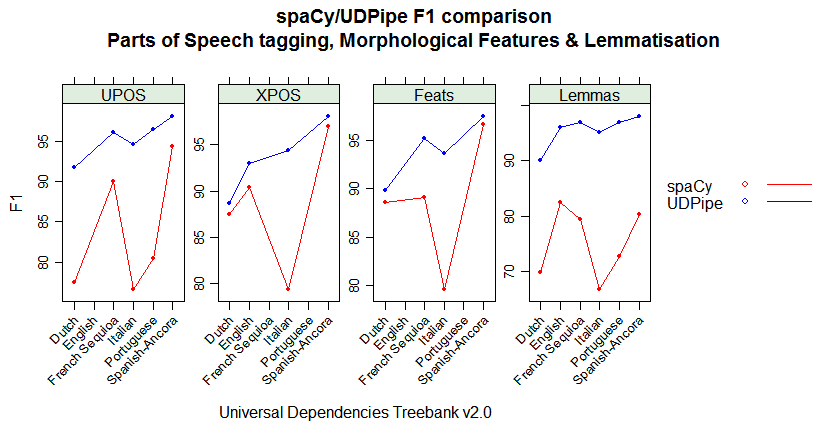
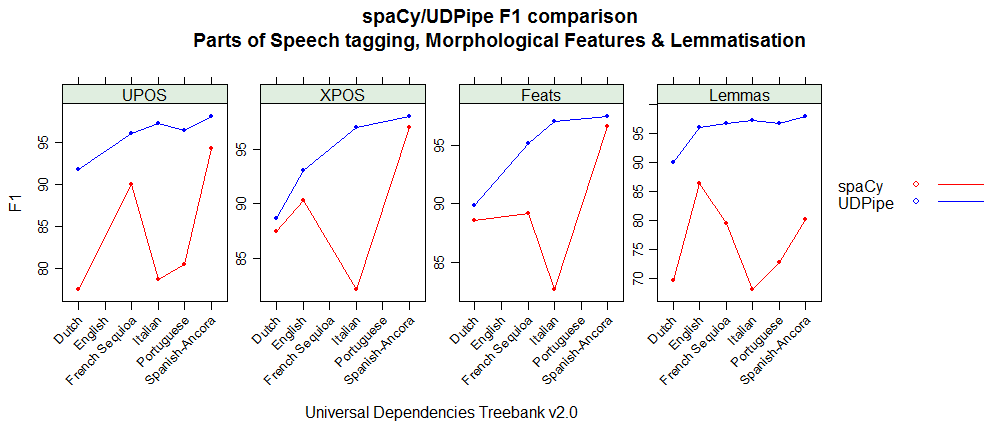
Run on Linux box with LANG nl_BE.UTF-8 to to use iconv. Also English now using V2.0 of UD treebank.

diff --git a/README.md b/README.md
@@ -2,8 +2,8 @@ This repository uses the CONLL-U evaluation script available at https://github.c
 
 - It does this evaluation for French (UD_French-Sequoia treebank), Dutch (UD_Dutch treebank), Spanish (UD_Spanish-Ancora treebank), Portuguese (UD_Portuguese treebank), Italian (UD_Italian treebank) and English (UD_English treebank)
 - The udpipe and spacy models used for evaluation were trained on the same treebanks from www.universaldependencies.org except for English. For English the udpipe models are constructed on a different treebank (UD_English) than the model which was built by spacy (which was trained on the Ontonotes treebank). All models were trained on the training set of each of the respective treebanks, while evalution shown below is executed on the left out test set.
-- For the spacy models, we took the models currently available for download as in python -m spacy download es (spaCy Version: 2.0.5), these were build on version 2.0 of the UD treebanks. For the udpipe models, the official models provided by the udpipe authors which were trained on 2017-08-01 on version 2.0-test of the treebanks were used (models available at https://github.com/jwijffels/udpipe.models.ud.2.0). Except for English, for which we built a model on 2018-01-11 on the newest version 2.1 of the UD_English treebank (code for this is openly available at https://github.com/bnosac/udpipe.models.ud). 
-- Code was run on 2018-02-07. Just run the R script udpipe-spacy-comparison.R if you want to reproduce this.
+- For the spacy models, we took the models currently available for download as in python -m spacy download es` (spaCy Version: 2.0.7), these were build on version 2.0 of the UD treebanks. For the udpipe models, the official models provided by the udpipe authors which were trained on 2017-08-01 on version 2.0-test of the treebanks were used (models available at https://github.com/jwijffels/udpipe.models.ud.2.0). Except for English, for which we built a model on 2018-01-11 on the newest version 2.1 of the UD_English treebank (code for this is openly available at https://github.com/bnosac/udpipe.models.ud). 
+- Code was run on 2018-02-11. Just run the R script udpipe-spacy-comparison.R if you want to reproduce this. Code run on a Ubuntu Linux machine with LANG nl_BE.UTF-8.
 
 Below the output is reported from the CONLL17 evaluation scripts for the udpipe and spacy models. 
 The most used results are the one from AligndAcc which indicate Gold accuracies which means that if we know the tokenisation, how good would the parts-of-speech tagging, morphological feature tagging and dependency parsing be.
@@ -215,7 +215,7 @@ CLAS       |     65.28 |     68.14 |     66.68 |     69.30
 
 Evaluation data from https://github.com/UniversalDependencies/UD_Italian release 2.0-test
 
-Notes: had to recode full text to ASCII to make evaluation work on my Windows machine
+Notes: None
 
 ## udpipe
 
@@ -223,17 +223,17 @@ Notes: had to recode full text to ASCII to make evaluation work on my Windows ma
 > system("python evaluation_script/conll17_ud_eval.py -v gold.conllu predictions_udpipe.conllu")
 Metrics    | Precision |    Recall |  F1 Score | AligndAcc
 -----------+-----------+-----------+-----------+-----------
-Tokens     |     99.87 |     99.82 |     99.85 |
-Sentences  |     95.93 |     97.93 |     96.92 |
-Words      |     99.78 |     99.76 |     99.77 |
-UPOS       |     94.61 |     94.60 |     94.60 |     94.82
-XPOS       |     94.37 |     94.36 |     94.36 |     94.58
-Feats      |     93.66 |     93.65 |     93.65 |     93.87
-AllTags    |     92.62 |     92.60 |     92.61 |     92.82
-Lemmas     |     95.08 |     95.07 |     95.07 |     95.29
-UAS        |     84.26 |     84.25 |     84.25 |     84.45
-LAS        |     79.88 |     79.87 |     79.88 |     80.06
-CLAS       |     72.59 |     72.47 |     72.53 |     72.68
+Tokens     |     99.91 |     99.92 |     99.91 |
+Sentences  |     96.73 |     98.34 |     97.53 |
+Words      |     99.82 |     99.85 |     99.83 |
+UPOS       |     97.21 |     97.24 |     97.22 |     97.38
+XPOS       |     97.01 |     97.03 |     97.02 |     97.18
+Feats      |     96.99 |     97.01 |     97.00 |     97.16
+AllTags    |     96.10 |     96.13 |     96.12 |     96.28
+Lemmas     |     97.28 |     97.31 |     97.30 |     97.46
+UAS        |     88.90 |     88.92 |     88.91 |     89.06
+LAS        |     86.20 |     86.22 |     86.21 |     86.36
+CLAS       |     79.81 |     79.49 |     79.65 |     79.67
 ```
 
 ## spacy
@@ -243,16 +243,16 @@ CLAS       |     72.59 |     72.47 |     72.53 |     72.68
 Metrics    | Precision |    Recall |  F1 Score | AligndAcc
 -----------+-----------+-----------+-----------+-----------
 Tokens     |     97.10 |     94.66 |     95.86 |
-Sentences  |     94.95 |     97.51 |     96.21 |
+Sentences  |     95.74 |     97.93 |     96.82 |
 Words      |     90.39 |     81.89 |     85.93 |
-UPOS       |     80.60 |     73.02 |     76.62 |     89.17
-XPOS       |     83.53 |     75.67 |     79.41 |     92.42
-Feats      |     83.78 |     75.90 |     79.64 |     92.68
-AllTags    |     79.05 |     71.61 |     75.15 |     87.46
-Lemmas     |     70.27 |     63.66 |     66.80 |     77.74
-UAS        |     66.61 |     60.34 |     63.32 |     73.69
-LAS        |     61.44 |     55.66 |     58.41 |     67.97
-CLAS       |     54.15 |     56.24 |     55.18 |     60.70
+UPOS       |     82.75 |     74.96 |     78.66 |     91.55
+XPOS       |     86.39 |     78.27 |     82.13 |     95.58
+Feats      |     86.96 |     78.78 |     82.66 |     96.20
+AllTags    |     81.78 |     74.09 |     77.75 |     90.48
+Lemmas     |     71.73 |     64.98 |     68.19 |     79.36
+UAS        |     70.98 |     64.30 |     67.47 |     78.52
+LAS        |     67.31 |     60.98 |     63.99 |     74.47
+CLAS       |     59.85 |     61.85 |     60.84 |     66.76
 ```
 
 # English (mark udpipe trained on UD_English, spacy was trained on Ontonotes)
@@ -264,6 +264,7 @@ Notes:
 - udpipe was trained on UD_English while spacy was trained on OntoNotes which is a different treebank than the udpipe model which makes comparison tricky
 - spacy does not return morphological features + it seems that dependency relationships do not follow the same format as universaldependencies.org giving probably false evaluation metrics on UAS and LAS
 - This all indicates that probably only the metrics on upos and xpos are relevant for comparison
+- also removed sentence newsgroup-groups.google.com_n3td3v_e874a1e5eb995654_ENG_20060120_052200-0011 from the test dataset as it contained non-UTF-8 characters
 
 ## udpipe
 
@@ -271,17 +272,17 @@ Notes:
 > system("python evaluation_script/conll17_ud_eval.py -v gold.conllu predictions_udpipe.conllu")
 Metrics    | Precision |    Recall |  F1 Score | AligndAcc
 -----------+-----------+-----------+-----------+-----------
-Tokens     |     99.13 |     98.91 |     99.02 |
-Sentences  |     94.57 |     97.35 |     95.94 |
-Words      |     99.13 |     98.91 |     99.02 |
-UPOS       |     93.76 |     93.55 |     93.65 |     94.58
-XPOS       |     93.11 |     92.91 |     93.01 |     93.93
-Feats      |     94.56 |     94.35 |     94.46 |     95.39
-AllTags    |     91.69 |     91.49 |     91.59 |     92.50
-Lemmas     |     96.20 |     95.99 |     96.10 |     97.05
-UAS        |     82.39 |     82.21 |     82.30 |     83.12
-LAS        |     79.07 |     78.90 |     78.99 |     79.77
-CLAS       |     75.55 |     74.91 |     75.23 |     75.72
+Tokens     |     99.15 |     98.94 |     99.05 |
+Sentences  |     93.49 |     96.82 |     95.13 |
+Words      |     99.15 |     98.94 |     99.05 |
+UPOS       |     93.77 |     93.58 |     93.68 |     94.58
+XPOS       |     93.15 |     92.95 |     93.05 |     93.95
+Feats      |     94.59 |     94.40 |     94.50 |     95.41
+AllTags    |     91.81 |     91.61 |     91.71 |     92.59
+Lemmas     |     96.16 |     95.96 |     96.06 |     96.99
+UAS        |     83.09 |     82.91 |     83.00 |     83.80
+LAS        |     79.97 |     79.80 |     79.88 |     80.65
+CLAS       |     76.20 |     75.95 |     76.07 |     76.81
 ```
 
 ## spacy
@@ -290,17 +291,17 @@ CLAS       |     75.55 |     74.91 |     75.23 |     75.72
 > system("python evaluation_script/conll17_ud_eval.py -v gold.conllu predictions_spacy.conllu")
 Metrics    | Precision |    Recall |  F1 Score | AligndAcc
 -----------+-----------+-----------+-----------+-----------
-Tokens     |     96.21 |     98.23 |     97.21 |
-Sentences  |     89.37 |     94.96 |     92.08 |
-Words      |     96.21 |     98.23 |     97.21 |
-UPOS       |     79.89 |     81.56 |     80.71 |     83.03
-XPOS       |     89.43 |     91.30 |     90.35 |     92.95
-Feats      |     32.39 |     33.07 |     32.73 |     33.67
-AllTags    |     27.38 |     27.95 |     27.67 |     28.46
-Lemmas     |     81.55 |     83.26 |     82.39 |     84.76
-UAS        |     55.58 |     56.74 |     56.16 |     57.77
-LAS        |     41.78 |     42.65 |     42.21 |     43.42
-CLAS       |     35.96 |     42.64 |     39.01 |     43.35
+Tokens     |     96.71 |     98.26 |     97.48 |
+Sentences  |     87.70 |     94.46 |     90.96 |
+Words      |     96.71 |     98.26 |     97.48 |
+UPOS       |     79.93 |     81.21 |     80.56 |     82.65
+XPOS       |     89.60 |     91.04 |     90.31 |     92.65
+Feats      |     32.51 |     33.03 |     32.77 |     33.62
+AllTags    |     27.65 |     28.09 |     27.87 |     28.59
+Lemmas     |     85.79 |     87.17 |     86.48 |     88.72
+UAS        |     56.00 |     56.90 |     56.44 |     57.90
+LAS        |     42.46 |     43.15 |     42.80 |     43.91
+CLAS       |     36.69 |     43.30 |     39.72 |     44.14
 ```
 
 # German
